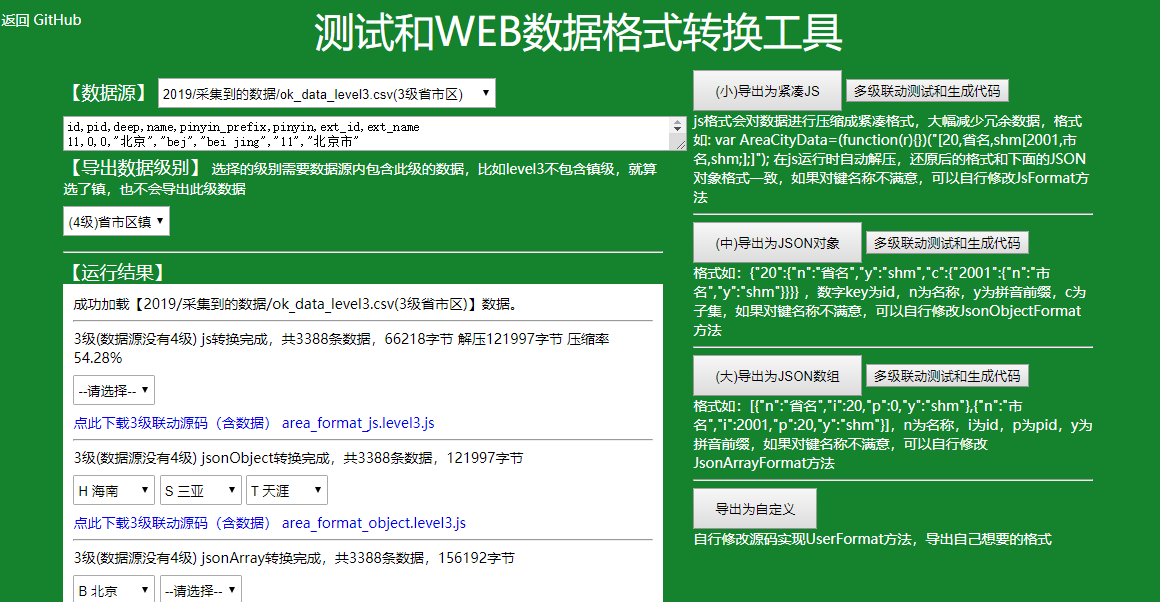
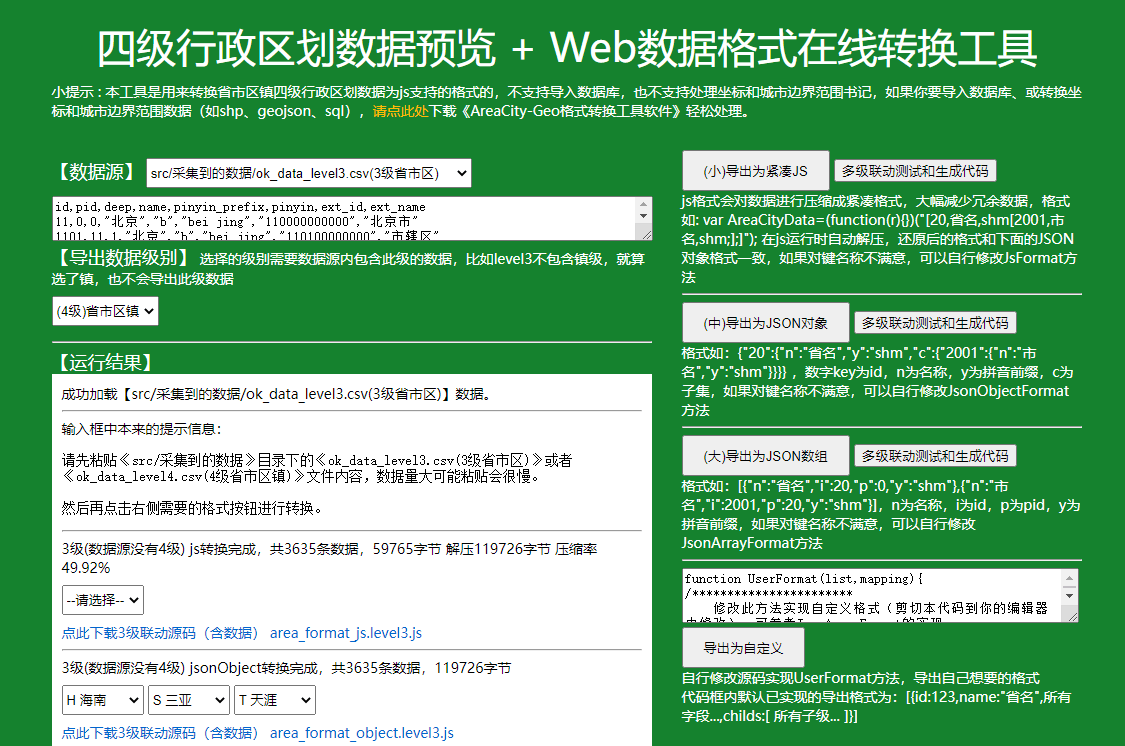
更新文档

diff --git a/assets/AreaCity-Geo-Transform-Tools.html b/assets/AreaCity-Geo-Transform-Tools.html
@@ -192,11 +192,10 @@ img{
 		<div class="content">
 			<ul class="c_ul" style="list-style-type: square;">
 				<li>将 ok_geo.csv坐标边界 转成 ESRI Shapefile (<i class="i">.shp</i>) 文件。</li>
-				<li>将 ok_geo.csv坐标边界 转成 GeoJSON (<i class="i">.json</i>) 文件。</li>
+				<li>将 ok_geo.csv坐标边界 转成 GeoJSON (<i class="i">.json</i>) 文件，支持按层级拆分成多级json文件。</li>
 				<li>将 ok_geo.csv坐标边界 转成 SQL (<i class="i">.sql</i>) 文件，支持SQL Server、MySQL数据库格式。</li>
-				<li>将 ok_geo.csv坐标边界 导入 SQL Server 2008+ 数据库。</li>
-				<li>将 ok_geo.csv坐标边界 导入 MySQL 5.0+ 数据库。</li>
-				<li>支持将 ok_data_level*.csv省市区镇行政区划 转成 SQL 文件、导入 数据库；可同时将坐标、边界范围附加到同一表中。</li>
+				<li>将 ok_geo.csv坐标边界 导入 MySQL 5.0+、SQL Server 2008+ 数据库。</li>
+				<li>将 ok_data_level*.csv省市区镇行政区划 转成 SQL 文件、导入 数据库；可同时将坐标、边界范围附加到同一表中。</li>
 				<li>支持限定导出数据级别，比如只导出全国所有市级数据，默认导出全部级别数据。</li>
 				<li>支持限定导出指定城市的数据，比如只导出湖北的所有城市，默认导出全国所有数据。</li>
 				<li>支持限定导出数据内容，比如可以只导出坐标或边界范围，默认两个都导出。</li>
@@ -342,7 +341,7 @@ img{
 					可以将转换成的shp文件在 ArcMap 等GIS软件中打开查看；注意：ok_geo.csv为高德地图的坐标数据，坐标系为GCJ-02火星坐标系，显示到Google地图、百度地图内有肉眼可见的偏移（几百米），可通过高级自定义脚本转换坐标系修正；此处以 ArcMap 为例。
 					<div style="padding-left:30px">
 						<div style="margin-top:20px">
-							1. 打开ArcMap，在Layers菜单上右键点击“Add Data”
+							1. 打开ArcMap，Layers用Asia_Lambert_Conformal_Conic投影，在Layers菜单上右键点击“Add Data”
 						</div>
 						<div style="margin-top:20px">
 							2. 在Add Data对话框中点击“Connect To Folder”，选择 ok_geo.csv 所在目录
@@ -439,7 +438,7 @@ select * from 【此处改成你的表名】 as t where deep=1 and polygon.STInt
 -- 查看广东省的所有市、区
 select id,ext_path,geo.STAsText(),polygon from 【此处改成你的表名】 where ext_path like '%广东省%'
 
--- 反解一个坐标对应的城市
+-- 反解一个坐标对应的城市 SQL Server版
 select id,ext_path,polygon from 【此处改成你的表名】 where polygon.STIntersects(geometry::STGeomFromText('POINT(114.044346 22.691963)',0))=1
 
 -- 反解一个坐标对应的城市 MySQL版

diff --git a/assets/geo-level4.html b/assets/geo-level4.html
@@ -282,7 +282,8 @@ img{
 			
 			<div class="h3">转换工具软件下载【必须】</div>
 			<div class="desc">
-				付费版乡镇第四级坐标边界数据，需要通过《AreaCity Geo格式转换工具》来进行转换导出，[ <a href="#xzqq">QQ群内下载</a> ]、或<a href="https://xiangyuecn.gitee.io/areacity-jsspider-statsgov/assets/AreaCity-Geo-Transform-Tools.html#xz" target="_blank">点此下载</a>转换工具软件。
+				付费版乡镇第四级坐标边界数据，需要通过《<a href="https://xiangyuecn.gitee.io/areacity-jsspider-statsgov/assets/AreaCity-Geo-Transform-Tools.html" target="_blank">AreaCity Geo格式转换工具</a>》来进行转换导出，下载地址：[ <a href="#xzqq">QQ群内下载</a> ]
+				、[ <a href="https://pan.baidu.com/s/14LsvF_PuPOEiOXgGAWI20w?pwd=b6ct" target="_blank">百度网盘下载</a> 提取码: b6ct]
 			</div>
 			
 			<div class="h3" style="margin-top:60px">坐标、边界范围数据下载<a name="xz-csv"></a></div>

diff --git a/README.md b/README.md
@@ -85,6 +85,58 @@ git clone --depth 1 https://github.com/xiangyuecn/AreaCity-JsSpider-StatsGov.git
 - [高德地图坐标和行政区域边界范围](https://lbs.amap.com/api/javascript-api/example/district-search/draw-district-boundaries)：当城市数据有变化时，主动从高德查询坐标和边界信息。
 
 
+
+
+## 【字段】ok_data_level*.csv表
+省市区镇数据表，可使用 [AreaCity-Geo格式转换工具软件](https://xiangyuecn.gitee.io/areacity-jsspider-statsgov/assets/AreaCity-Geo-Transform-Tools.html) 直接导入数据库。
+
+字段|类型|描述
+:--:|:--:|--
+id|int/long|城市编号，三级用int类型，四级用long类型；省市区三级为统计局的编号经过去除后缀的`0{3,6,8}`得到的短编号，港澳台编号为民政部的编号；如果是添加的数据（国外），此编号为自定义编号；镇级主要为腾讯地图行政区划的编号，大部分和统计局的数据一致，约7.5%（约3000个）的镇级不一致；如果某级缺失(如：省直辖县级市、新增城市)，会用上级数据进行补齐，编号为上级结尾添加0{2,3}，*注意如果要恢复长编号时（简单的补上00）已有的ID会和添加的ID产生冲突，比如4位恢复到6位将导致部分上下级ID冲突，恢复时这些新加的数据要进行特殊处理*。
+pid|int|上级ID
+deep|int|层级深度；0：省，1：市，2：区，3：镇
+name|string|城市名称；省市区三级为统计局的名称精简过后的，镇级主要为腾讯地图行政区划的名称精简过后的
+pinyin_prefix|string|`name`的拼音前缀，取的是`pinyin`第一个字母，或港澳台、国外自定义前缀；用来排序时应当先根据拼音前缀的首字母来排序，相同的再根据前缀+名称进行排序
+pinyin|string|`name`的完整拼音
+ext_id|long|数据源原始的编号；如果是添加的数据，此编号为0
+ext_name|string|数据源原始的名称，为未精简的名称
+
+## 【字段】ok_geo.csv表
+此表为坐标和行政区域边界范围数据表，含省市区三级不含第四级，如需乡镇坐标边界数据[请到此下载](https://xiangyuecn.gitee.io/areacity-jsspider-statsgov/assets/geo-level4.html)；因为数据文件过大（130M+），所以分开存储。
+
+由于边界数据的解析比较复杂，请参考[src/map_geo_格式化.js](https://github.com/xiangyuecn/AreaCity-JsSpider-StatsGov/blob/master/src/%E5%9D%90%E6%A0%87%E5%92%8C%E8%BE%B9%E7%95%8C/map_geo_%E6%A0%BC%E5%BC%8F%E5%8C%96.js)内的SQL Server的解析语句，或者使用 [AreaCity-Geo格式转换工具软件](https://xiangyuecn.gitee.io/areacity-jsspider-statsgov/assets/AreaCity-Geo-Transform-Tools.html) 直接导入数据库，或者转换成`shp`、`geojson`、`sql`格式。
+
+字段|类型|描述
+:--:|:--:|--
+id|int|和`ok_data_level*.csv`表中的`ID`相同，通过这个`ID`关联到省市区具体数据，`map_geo_格式化.js`中有数据合并SQL语句
+pid|int|上级ID
+deep|int|层级深度；0：省，1：市，2：区
+name|string|城市完整名称
+ext_path|string|如：“广东省 深圳市 罗湖区”，为省市区三级完整名称，中间用空格分隔
+geo|string|城市中心坐标，高德地图`GCJ-02`火星坐标系。格式："lng lat" or "EMPTY"，少量的EMPTY（仅台湾的城市、国外）代表此城市没有抓取到坐标信息
+polygon|string|行政区域边界，高德地图`GCJ-02`火星坐标系。格式："lng lat,...;lng lat,..." or "EMPTY"，少量的EMPTY（仅台湾的城市、国外）代表此城市没有抓取到边界信息；存在多个地块(如海岛、飞地)时用`;`分隔，每个地块的坐标点用`,`分隔，特别要注意：多个地块组合在一起可能是[MULTIPOLYGON](https://docs.microsoft.com/zh-cn/sql/relational-databases/spatial/multipolygon?view=sql-server-2014)或者[POLYGON](https://docs.microsoft.com/zh-cn/sql/relational-databases/spatial/polygon?view=sql-server-2014)，需用工具进行计算和对数据进行验证
+
+
+
+## 数据有效性和完整性
+本库会尽量和民政部的更新频率保持一致，但由于最为主要的两个数据源`国家统计局`、`腾讯地图行政区划`更新频度并没有民政部高；因此省市区三级准确度和民政部准确度是一量级，并且要更完整些；第四级镇级主要由`腾讯地图行政区划`提供，腾讯数据源并不经常更新，因此会导致小部分新增、调整的城市第四级没有数据（会用上级数据补齐），使用前应该考虑此缺陷。
+
+数据通过使用上级数据补齐的形式（具体细节请参考后面的数据规则），使得任何一个数据都能满足省市区镇4级结构，没有孤立的（ID全局唯一），因此不管从哪级进行下级选择，都能进行有效操作。可以通过ID结构来识别这种补齐填充的数据，只要ID为上级的ID+多个0，就代表此数据为补齐填充数据，比如：东莞（4419）-东莞（441900），很容易鉴别出441900为补齐用的填充数据。
+
+会发生补齐行为的数据很少，约50来个（不含台湾），主要为：直筒子市（东莞、儋州等）、省直辖县级市（济源、潜江等），他们的下一级仅有补齐的这条数据。另外直辖市（北京、天津等）下级也仅有一条数据，ID结尾为01（不包括重庆，重庆下级分成了市、县两个）。
+
+直筒子等这种为什么不直接把下级往上提一级来做区级，采用补齐填充的方式来对齐数据的原因，请参考[issue#9](https://github.com/xiangyuecn/AreaCity-JsSpider-StatsGov/issues/9)。
+
+数据中不包含大部分[行政管理区](https://baike.baidu.com/item/%E8%A1%8C%E6%94%BF%E7%AE%A1%E7%90%86%E5%8C%BA/17184852)，比如：雄安新区、天府新区、苏州工业园区等，请自行查阅和[行政区划](https://baike.baidu.com/item/%E8%A1%8C%E6%94%BF%E5%8C%BA%E5%88%92/4655526)的区别。
+
+
+
+
+[](?)
+
+[](?)
+
+
 ## 采集环境
 
 chrome 控制台，当前数据采集使用的chrome版本：`Chrome 97` + `Chrome 80`，chrome越来越难用（[简单制作chrome便携版实现多版本共存](https://github.com/xiangyuecn/Docs/blob/master/Other/%E8%87%AA%E5%B7%B1%E5%88%B6%E4%BD%9Cchrome%E4%BE%BF%E6%90%BA%E7%89%88%E5%AE%9E%E7%8E%B0%E5%A4%9A%E7%89%88%E6%9C%AC%E5%85%B1%E5%AD%98.md)）。
@@ -104,62 +156,6 @@ chrome 控制台，当前数据采集使用的chrome版本：`Chrome 97` + `Chro
 - 2013版(2013)采集了4层，省、市、区、镇，来源：[统计局2013版数据](http://www.stats.gov.cn/tjsj/tjbz/tjyqhdmhcxhfdm/2013/index.html)。
 
 
-## 数据有效性和完整性
-本库会尽量和民政部的更新频率保持一致，但由于最为主要的两个数据源`国家统计局`、`腾讯地图行政区划`更新频度并没有民政部高；因此省市区三级准确度和民政部准确度是一量级，并且要更完整些；第四级镇级主要由`腾讯地图行政区划`提供，腾讯数据源并不经常更新，因此会导致小部分新增、调整的城市第四级没有数据（会用上级数据补齐），使用前应该考虑此缺陷。
-
-数据通过使用上级数据补齐的形式（具体细节请参考后面的数据规则），使得任何一个数据都能满足省市区镇4级结构，没有孤立的（ID全局唯一），因此不管从哪级进行下级选择，都能进行有效操作。可以通过ID结构来识别这种补齐填充的数据，只要ID为上级的ID+多个0，就代表此数据为补齐填充数据，比如：东莞（4419）-东莞（441900），很容易鉴别出441900为补齐用的填充数据。
-
-会发生补齐行为的数据很少，约50来个（不含台湾），主要为：直筒子市（东莞、儋州等）、省直辖县级市（济源、潜江等），他们的下一级仅有补齐的这条数据。另外直辖市（北京、天津等）下级也仅有一条数据，ID结尾为01（不包括重庆，重庆下级分成了市、县两个）。
-
-直筒子等这种为什么不直接把下级往上提一级来做区级，采用补齐填充的方式来对齐数据的原因，请参考[issue#9](https://github.com/xiangyuecn/AreaCity-JsSpider-StatsGov/issues/9)。
-
-
-
-[](?)
-
-[](?)
-
-
-## 【字段】ok_data表
-省市区镇数据表，可使用 [AreaCity-Geo格式转换工具软件](https://xiangyuecn.gitee.io/areacity-jsspider-statsgov/assets/AreaCity-Geo-Transform-Tools.html) 直接导入数据库。
-
-字段|类型|描述
-:--:|:--:|--
-id|int/long|城市编号，三级用int类型，四级用long类型；省市区三级为统计局的编号经过去除后缀的`0{3,6,8}`得到的短编号，港澳台编号为民政部的编号；如果是添加的数据（国外），此编号为自定义编号；镇级主要为腾讯地图行政区划的编号，大部分和统计局的数据一致，约7.5%（约3000个）的镇级不一致；如果某级缺失(如：省直辖县级市、新增城市)，会用上级数据进行补齐，编号为上级结尾添加0{2,3}，*注意如果要恢复长编号时（简单的补上00）已有的ID会和添加的ID产生冲突，比如4位恢复到6位将导致部分上下级ID冲突，恢复时这些新加的数据要进行特殊处理*。
-pid|int|上级ID
-deep|int|层级深度；0：省，1：市，2：区，3：镇
-name|string|城市名称；省市区三级为统计局的名称精简过后的，镇级主要为腾讯地图行政区划的名称精简过后的
-pinyin_prefix|string|`name`的拼音前缀，取的是`pinyin`第一个字母，或港澳台、国外自定义前缀；用来排序时应当先根据拼音前缀的首字母来排序，相同的再根据前缀+名称进行排序
-pinyin|string|`name`的完整拼音
-ext_id|long|数据源原始的编号；如果是添加的数据，此编号为0
-ext_name|string|数据源原始的名称，为未精简的名称
-
-## 【字段】ok_geo表
-此表为坐标和行政区域边界范围数据表，含省市区三级不含第四级，如需乡镇坐标边界数据[请到此下载](https://xiangyuecn.gitee.io/areacity-jsspider-statsgov/assets/geo-level4.html)；因为数据文件过大（130M+），所以分开存储。
-
-由于边界数据的解析比较复杂，请参考[src/map_geo_格式化.js](https://github.com/xiangyuecn/AreaCity-JsSpider-StatsGov/blob/master/src/%E5%9D%90%E6%A0%87%E5%92%8C%E8%BE%B9%E7%95%8C/map_geo_%E6%A0%BC%E5%BC%8F%E5%8C%96.js)内的SQL Server的解析语句，或者使用 [AreaCity-Geo格式转换工具软件](https://xiangyuecn.gitee.io/areacity-jsspider-statsgov/assets/AreaCity-Geo-Transform-Tools.html) 直接导入数据库，或者转换成`shp`、`geojson`、`sql`格式。
-
-字段|类型|描述
-:--:|:--:|--
-id|int|和`ok_data`表中的`ID`相同，通过这个`ID`关联到省市区具体数据，`map_geo_格式化.js`中有数据合并SQL语句
-pid|int|上级ID
-deep|int|层级深度；0：省，1：市，2：区
-name|string|城市完整名称
-ext_path|string|如：“广东省 深圳市 罗湖区”，为省市区三级完整名称，中间用空格分隔
-geo|string|城市中心坐标，高德地图`GCJ-02`火星坐标系。格式："lng lat" or "EMPTY"，少量的EMPTY（仅台湾的城市、国外）代表此城市没有抓取到坐标信息
-polygon|string|行政区域边界，高德地图`GCJ-02`火星坐标系。格式："lng lat,...;lng lat,..." or "EMPTY"，少量的EMPTY（仅台湾的城市、国外）代表此城市没有抓取到边界信息；存在多个地块(如海岛、飞地)时用`;`分隔，每个地块的坐标点用`,`分隔，特别要注意：多个地块组合在一起可能是[MULTIPOLYGON](https://docs.microsoft.com/zh-cn/sql/relational-databases/spatial/multipolygon?view=sql-server-2014)或者[POLYGON](https://docs.microsoft.com/zh-cn/sql/relational-databases/spatial/polygon?view=sql-server-2014)，需用工具进行计算和对数据进行验证
-
-
-
-[](?)
-
-[](?)
-
-
-## 案例效果
-[<img src="https://xiangyuecn.gitee.io/areacity-jsspider-statsgov/assets/use_picker.gif" width="280px">](https://jiebian.life/start/test/app?picker=1) [<img src="https://xiangyuecn.gitee.io/areacity-jsspider-statsgov/assets/use_select.png" width="460px">](https://xiangyuecn.gitee.io/areacity-jsspider-statsgov/)
-
-
 
 
 
@@ -171,53 +167,25 @@ polygon|string|行政区域边界，高德地图`GCJ-02`火星坐标系。格式
 
 
 
-# :open_book:测试和WEB数据格式转换工具
+# :open_book:在线测试工具
 
 在线测试工具地址：[https://xiangyuecn.gitee.io/areacity-jsspider-statsgov/](https://xiangyuecn.gitee.io/areacity-jsspider-statsgov/)
 
-或者直接使用`测试和WEB数据格式转换工具.js`，在任意网页控制台中使用。
-
-此工具主要用于把csv数据转换成别的格式，另外提供省市区多级联动测试，并且可生成js源码（含数据）下载，3级联动生成的文件紧凑版68kb，4级联动紧凑版1mb大小。
+此工具主要用于将`ok_data_level*.csv`四级行政区划数据文件转换成别的格式，另外提供省市区多级联动测试，并且可生成js源码（含数据）下载，3级联动生成的文件紧凑版68kb，4级联动紧凑版1mb大小。
 
 ## 工具支持：
-1. 数据预览和测试。
+1. 省市区镇四级行政区划数据预览和测试。
 2. 将csv数据导出成压缩后的紧凑版js格式纯数据文件，省市区3级数据65kb大小。
 3. 将csv数据导出成JSON对象、JSON数组纯数据文件，省市区3级数据120kb+。
 4. 网页版省市区镇多级联动测试。
-5. 网页版省市区多级联动js代码生成（含数据）。
+5. 网页版省市区镇多级联动js代码生成（含数据）。
 
-## 效果图
+## 相关截图
 ![](assets/tools.png)
 
 
 
 
-[](?)
-
-[](?)
-
-[](?)
-
-
-# :open_book:拼音标注
-
-## 拼音源
-省市区这三级采用在线拼音工具转换，据说依据《新华字典》、《现代汉语词典》等规范性辞书校对，多音字地名大部分能正确拼音，`重庆:chong qing`，`朝阳:chao yang`，`郫都:pi du`，`闵行:min hang`，`康巴什:kang ba shi`、`六安市:lu an shi`；转换完成后会和腾讯地图行政区划存在的拼音进行对比校正。
-
-镇级以下地名采用本地拼音库（`assets/pinyin-python-server`）转换，准确度没有省市区的高。
-
-## 拼音前缀
-目前采用的是截取第一个字拼音的首字母，和港澳台、国外特殊指定前缀。
-
-### 排序方案：
-
-方案一(2016版废弃)：取每个字的拼音首字母排序，比如：`河北:hb` `湖北:hb` `黑龙江:hlj` `河南:hn` `湖南:hn`
-
-方案二(2018版废弃)：取的是第一个字前两个字母和后两个字首字母排序：`河北:heb` `黑龙江:helj` `河南:hen` `湖北:hub` `湖南:hun`
-
-方案三(返璞归真)：取第拼音前缀首字母进行排序，如果两个字母相同，再使用(首字母前缀或自定义前缀)+(名称)进行排序：`河北:h.河北` `河南:h.河南` `黑龙江:h.黑龙江` `湖北:h.湖北` `湖南:h.湖南` `香港:~1.香港` `澳门:~2.澳门`
-
-排序方案三看起来好些；为什么不直接用名称文本进行排序，我怕不同环境下对多音字不友好，最差情况下也不会比方案一差，并且排序可透过前缀实施自定义控制。
 
 
 
@@ -228,67 +196,56 @@ polygon|string|行政区域边界，高德地图`GCJ-02`火星坐标系。格式
 [](?)
 
 
-# :open_book:坐标和行政区域边界范围
+# :open_book:格式转换工具-PC版软件
 
-## 在线测试和预览
-坐标边界范围在线测试预览地址：[ECharts Map四级下钻在线测试和预览+代码生成](https://xiangyuecn.gitee.io/areacity-jsspider-statsgov/assets/geo-echarts.html)
+[AreaCity-Geo格式转换工具软件](https://xiangyuecn.gitee.io/areacity-jsspider-statsgov/assets/AreaCity-Geo-Transform-Tools.html)用于将采集到的 `ok_geo.csv` 省市区乡镇坐标和边界范围文件转成其他格式，也支持将 `ok_data_level*.csv` 省市区镇行政区划数据导入数据库。
 
+此软件可免费使用，但有些功能会受到限制，比如省市区边界数据：每次转换操作最多导出全国所有省级、或一个城市和它的下一级数据，可付费升级为完整版。
 
-## 数据源
-使用高德接口采集的，本来想采百度地图的，但经过使用发现百度地图数据~~有严重问题(百度已更新，不能复现了)~~：
-
-参考 `肃宁县（右下方向那块飞地）`、`路南区（唐山科技职业技术学院那里一段诡异的边界）` 边界，~~百度数据大量线段交叉的无效`polygon`(百度已更新，不能复现了)~~（[百度地图测试](http://lbsyun.baidu.com/jsdemo.htm#c1_10)），没有人工无法修[](?FixGitee_Block)正，高德没有这个问题（[高德地图测试](https://lbs.amap.com/api/javascript-api/example/district-search/draw-district-boundaries)）；
-
-并且高德对镂空性质(Hole)的地块处理比百度强，参考`池州市`对`铜陵市`的飞地处理，高德数据只需要`Union`操作就能生成`polygon`，百度如果不计算位置关系，是完全不知道应该进行`Union`操作还是`Difference`操作，极其复杂数据还无效。
-
-所以放弃使用百度地图数据。
-
-
-
-[](?)
-
-[](?)
+## 工具支持：
+1. 将 ok_geo.csv坐标边界 转成 ESRI Shapefile (.shp) 文件。
+2. 将 ok_geo.csv坐标边界 转成 GeoJSON (.json) 文件，支持按层级拆分成多级json文件。
+3. 将 ok_geo.csv坐标边界 转成 SQL (.sql) 文件，支持多种数据库格式。
+4. 将 ok_geo.csv坐标边界 导入 MySQL 5.0+、SQL Server 2008+ 数据库。
+5. 将 ok_data_level*.csv省市区镇行政区划 转成 SQL 文件、导入 数据库；可同时将坐标、边界范围附加到同一表中。
+6. 支持坐标系转换，ok_geo默认为GCJ-02火星坐标系，支持转换成：BD-09、WGS-84 GPS、CGCS2000。
+7. 可执行自定义 JavaScript 脚本，可扩展出丰富功能。
+8. 转换精度高，速度快，内存占用小，3-5分钟左右可转换完所有数据。
+9. 支持Win10、Win8、Win7，32位、64位系统使用（其他系统装虚拟机可用）。
 
 
-## 如何使用坐标和边界数据
+## 相关截图
 
-`坐标和边界数据` 和 `省市区` 数据是分开存储的，通过`ID`来进行关联。
+工具软件界面：
 
-可以把`ok_geo.csv`导入到数据库内使用，由于`POLYGON`需要解析，蛮复杂的，可以参考[src/map_geo_格式化.js](https://github.com/xiangyuecn/AreaCity-JsSpider-StatsGov/blob/master/src/%E5%9D%90%E6%A0%87%E5%92%8C%E8%BE%B9%E7%95%8C/map_geo_%E6%A0%BC%E5%BC%8F%E5%8C%96.js)内的SQL Server导入用的SQL语句的例子，或者直接使用[AreaCity-Geo格式转换工具软件](https://xiangyuecn.gitee.io/areacity-jsspider-statsgov/assets/AreaCity-Geo-Transform-Tools.html)进行转换成`shp`、`geojson`、`sql`格式或直接导入数据库。
+![](assets/AGT-Images/a0.png)
 
-如果需要特定的`POLYGON`格式，可以根据上面介绍的字段格式，自行进行解析和验证。
-
-使用过程中如果遇到多种不同坐标系的问题，比如请求的参数是`WGS-84坐标(GPS)`，我们后端存储的是高德的坐标，可以通过将`WGS-84坐标`转成`高德坐标`后进行处理，百度的坐标一样。转换有相应方法，转换精度一般可以达到预期范围，可自行查找。或者直接把高德的原始坐标数据转换成目标坐标系后再存储（精度？）。
-
-> 注意：MySQL 5.* 中进行空间计算查询时，不带ST_打头的函数均为采用Polygon的外接矩形计算，会导致结果不准确，应当使用带ST_打头的方法来进行查询，[FAQ](https://xiangyuecn.gitee.io/areacity-jsspider-statsgov/assets/AreaCity-Geo-Transform-Tools.html#badmysql)
-> 
-> 注意：MySQL的空间索引的创建要按[官方文档](https://dev.mysql.com/doc/refman/8.0/en/spatial-index-optimization.html)进行创建，否则很可能会索引失效，从而导致空间查询异常缓慢；或者切换成MyISAM引擎，会比InnoDB引擎的空间查询快很多。
-
-## 省市区三级边界效果
-
-![](assets/geo-sheng.gif) ![](assets/geo-guangdong.gif)
-
-## 乡镇第4级边界效果
-![](assets/geo-level4/preview-free.png) ![](assets/geo-level4/z01.png)
-
-
-
-[](?)
-
-[](?)
-
-
-## AreaCity-Geo格式转换工具软件
-
-本工具软件用于将采集到的 ok_geo.csv 城市坐标和边界范围文件转成其他格式，比如：`shp`、`geojson`、`sql`；或者直接导入数据库：SQL Server、MySQL；也支持省市区镇数据的数据库导入；[软件教程和下载地址](https://xiangyuecn.gitee.io/areacity-jsspider-statsgov/assets/AreaCity-Geo-Transform-Tools.html)。
-
-此软件可免费使用，但会受到限制，每次转换操作最多导出一个城市和它的下一级数据，可付费升级为完整版。
-
-**相关截图：**
+导入MySQL查询效果：
 
 ![](assets/AGT-Images/sy-4.png)
 
+导入SQL Server查询效果：
+
+![](assets/AGT-Images/sy-5.png)
+
+省市区三级边界（ArcMap Asia_Lambert_Conformal_Conic投影）：
+
 ![](assets/AGT-Images/sy-2.png)
+
+全国乡镇边界（ArcMap Asia_Lambert_Conformal_Conic投影）：
+
+![](assets/geo-level4/preview-arcmap-full.png)
+
+湖北省市和乡镇边界（QGIS Asia_Lambert_Conformal_Conic投影）：
+
+![](assets/geo-level4/preview-qgis-wuhan.png)
+
+湖北省乡镇边界（SQL Server查询空间结果）：
+
+![](assets/geo-level4/z01.png)
+
+
+
 
 
 
@@ -333,7 +290,28 @@ polygon|string|行政区域边界，高德地图`GCJ-02`火星坐标系。格式
 4. 其他平台的数据在感官上显得都[不够完美](https://v2ex.com/t/607306)，综合一下舒畅多了。
 
 
-## 修[](?FixGitee_Block)正数据
+## 拼音标注和排序
+
+### 拼音源
+省市区这三级采用在线拼音工具转换，据说依据《新华字典》、《现代汉语词典》等规范性辞书校对，多音字地名大部分能正确拼音，`重庆:chong qing`，`朝阳:chao yang`，`郫都:pi du`，`闵行:min hang`，`康巴什:kang ba shi`、`六安市:lu an shi`；转换完成后会和腾讯地图行政区划存在的拼音进行对比校正。
+
+镇级以下地名采用本地拼音库（`assets/pinyin-python-server`）转换，准确度没有省市区的高。
+
+### 拼音前缀
+目前采用的是截取第一个字拼音的首字母，和港澳台、国外特殊指定前缀。
+
+### 排序方案：
+
+方案一(2016版废弃)：取每个字的拼音首字母排序，比如：`河北:hb` `湖北:hb` `黑龙江:hlj` `河南:hn` `湖南:hn`
+
+方案二(2018版废弃)：取的是第一个字前两个字母和后两个字首字母排序：`河北:heb` `黑龙江:helj` `河南:hen` `湖北:hub` `湖南:hun`
+
+方案三(返璞归真)：取第拼音前缀首字母进行排序，如果两个字母相同，再使用(首字母前缀或自定义前缀)+(名称)进行排序：`河北:h.河北` `河南:h.河南` `黑龙江:h.黑龙江` `湖北:h.湖北` `湖南:h.湖南` `香港:~1.香港` `澳门:~2.澳门`
+
+排序方案三看起来好些；为什么不直接用名称文本进行排序，我怕不同环境下对多音字不友好，最差情况下也不会比方案一差，并且排序可透过前缀实施自定义控制。
+
+
+### 修[](?FixGitee_Block)正数据
 
 - [issues/2](https://github.com/xiangyuecn/AreaCity-JsSpider-StatsGov/issues/2) `乐亭县` 的 `乐`读`lào` ，此县下面的`乐亭`读音均已修[](?FixGitee_Block)正。
 - [2020-8-23] QQ:85005150反馈 `宕昌县` 的 `宕` 读 `tàn`。
